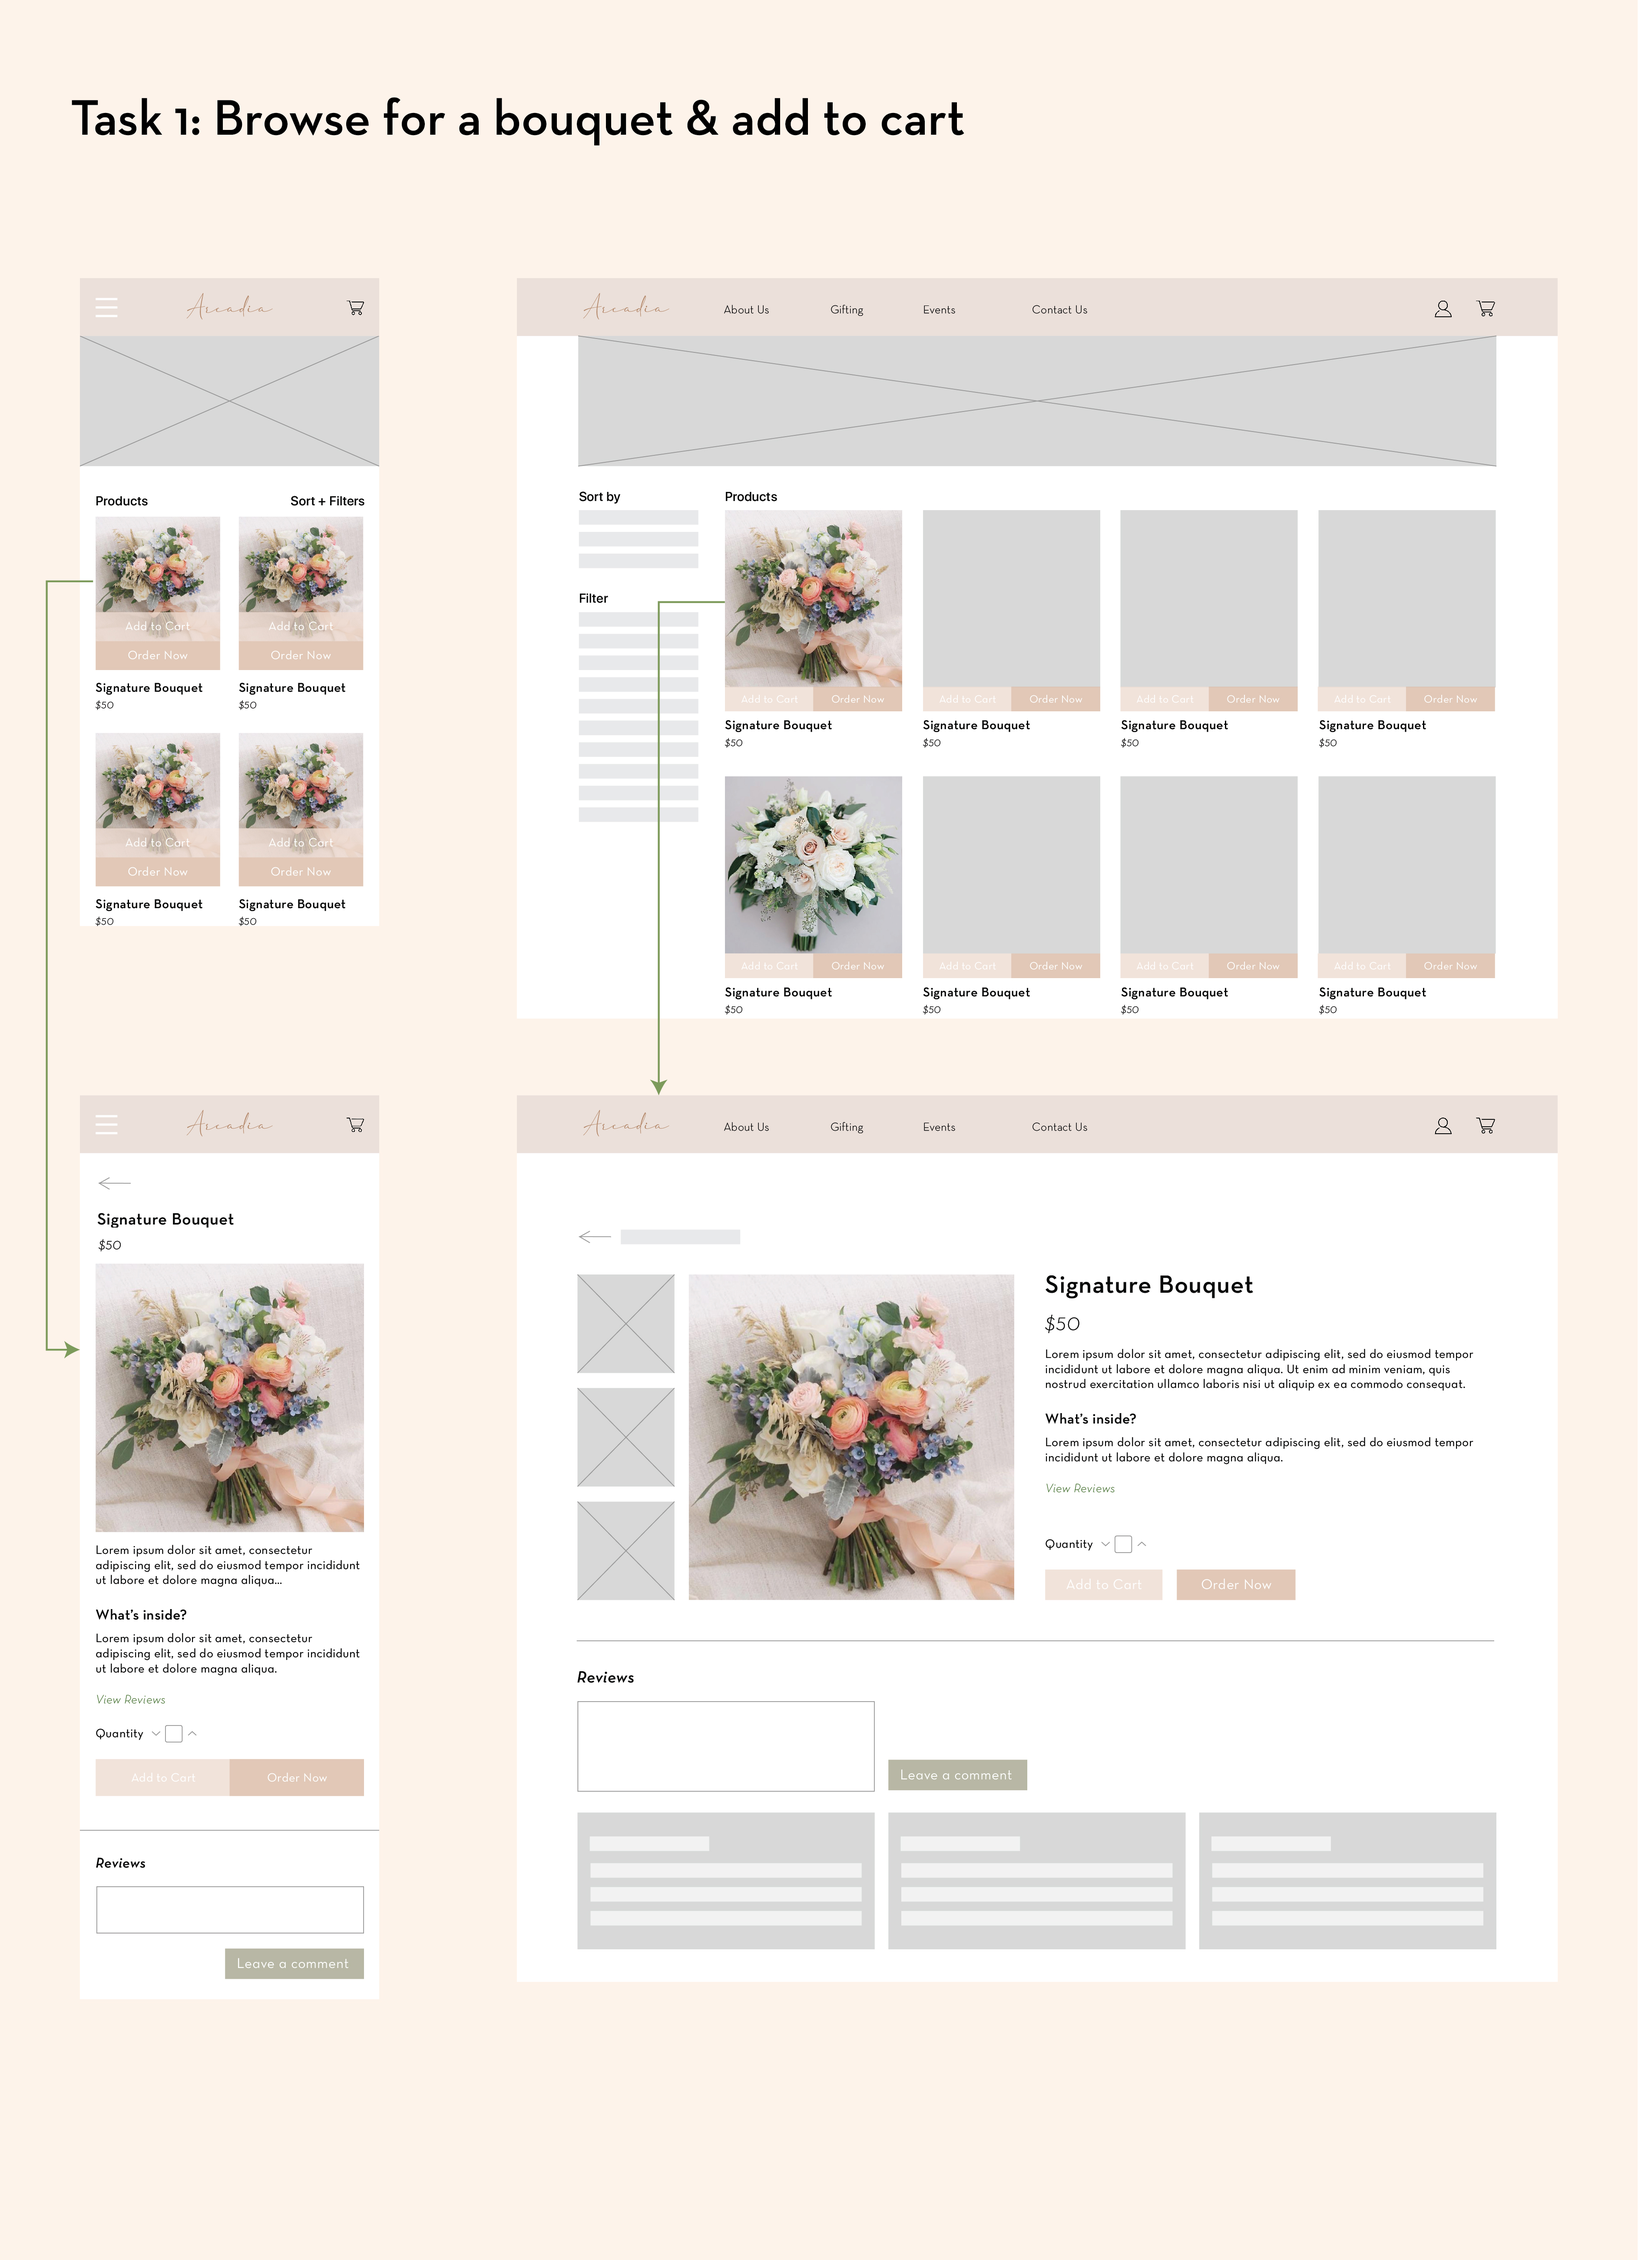
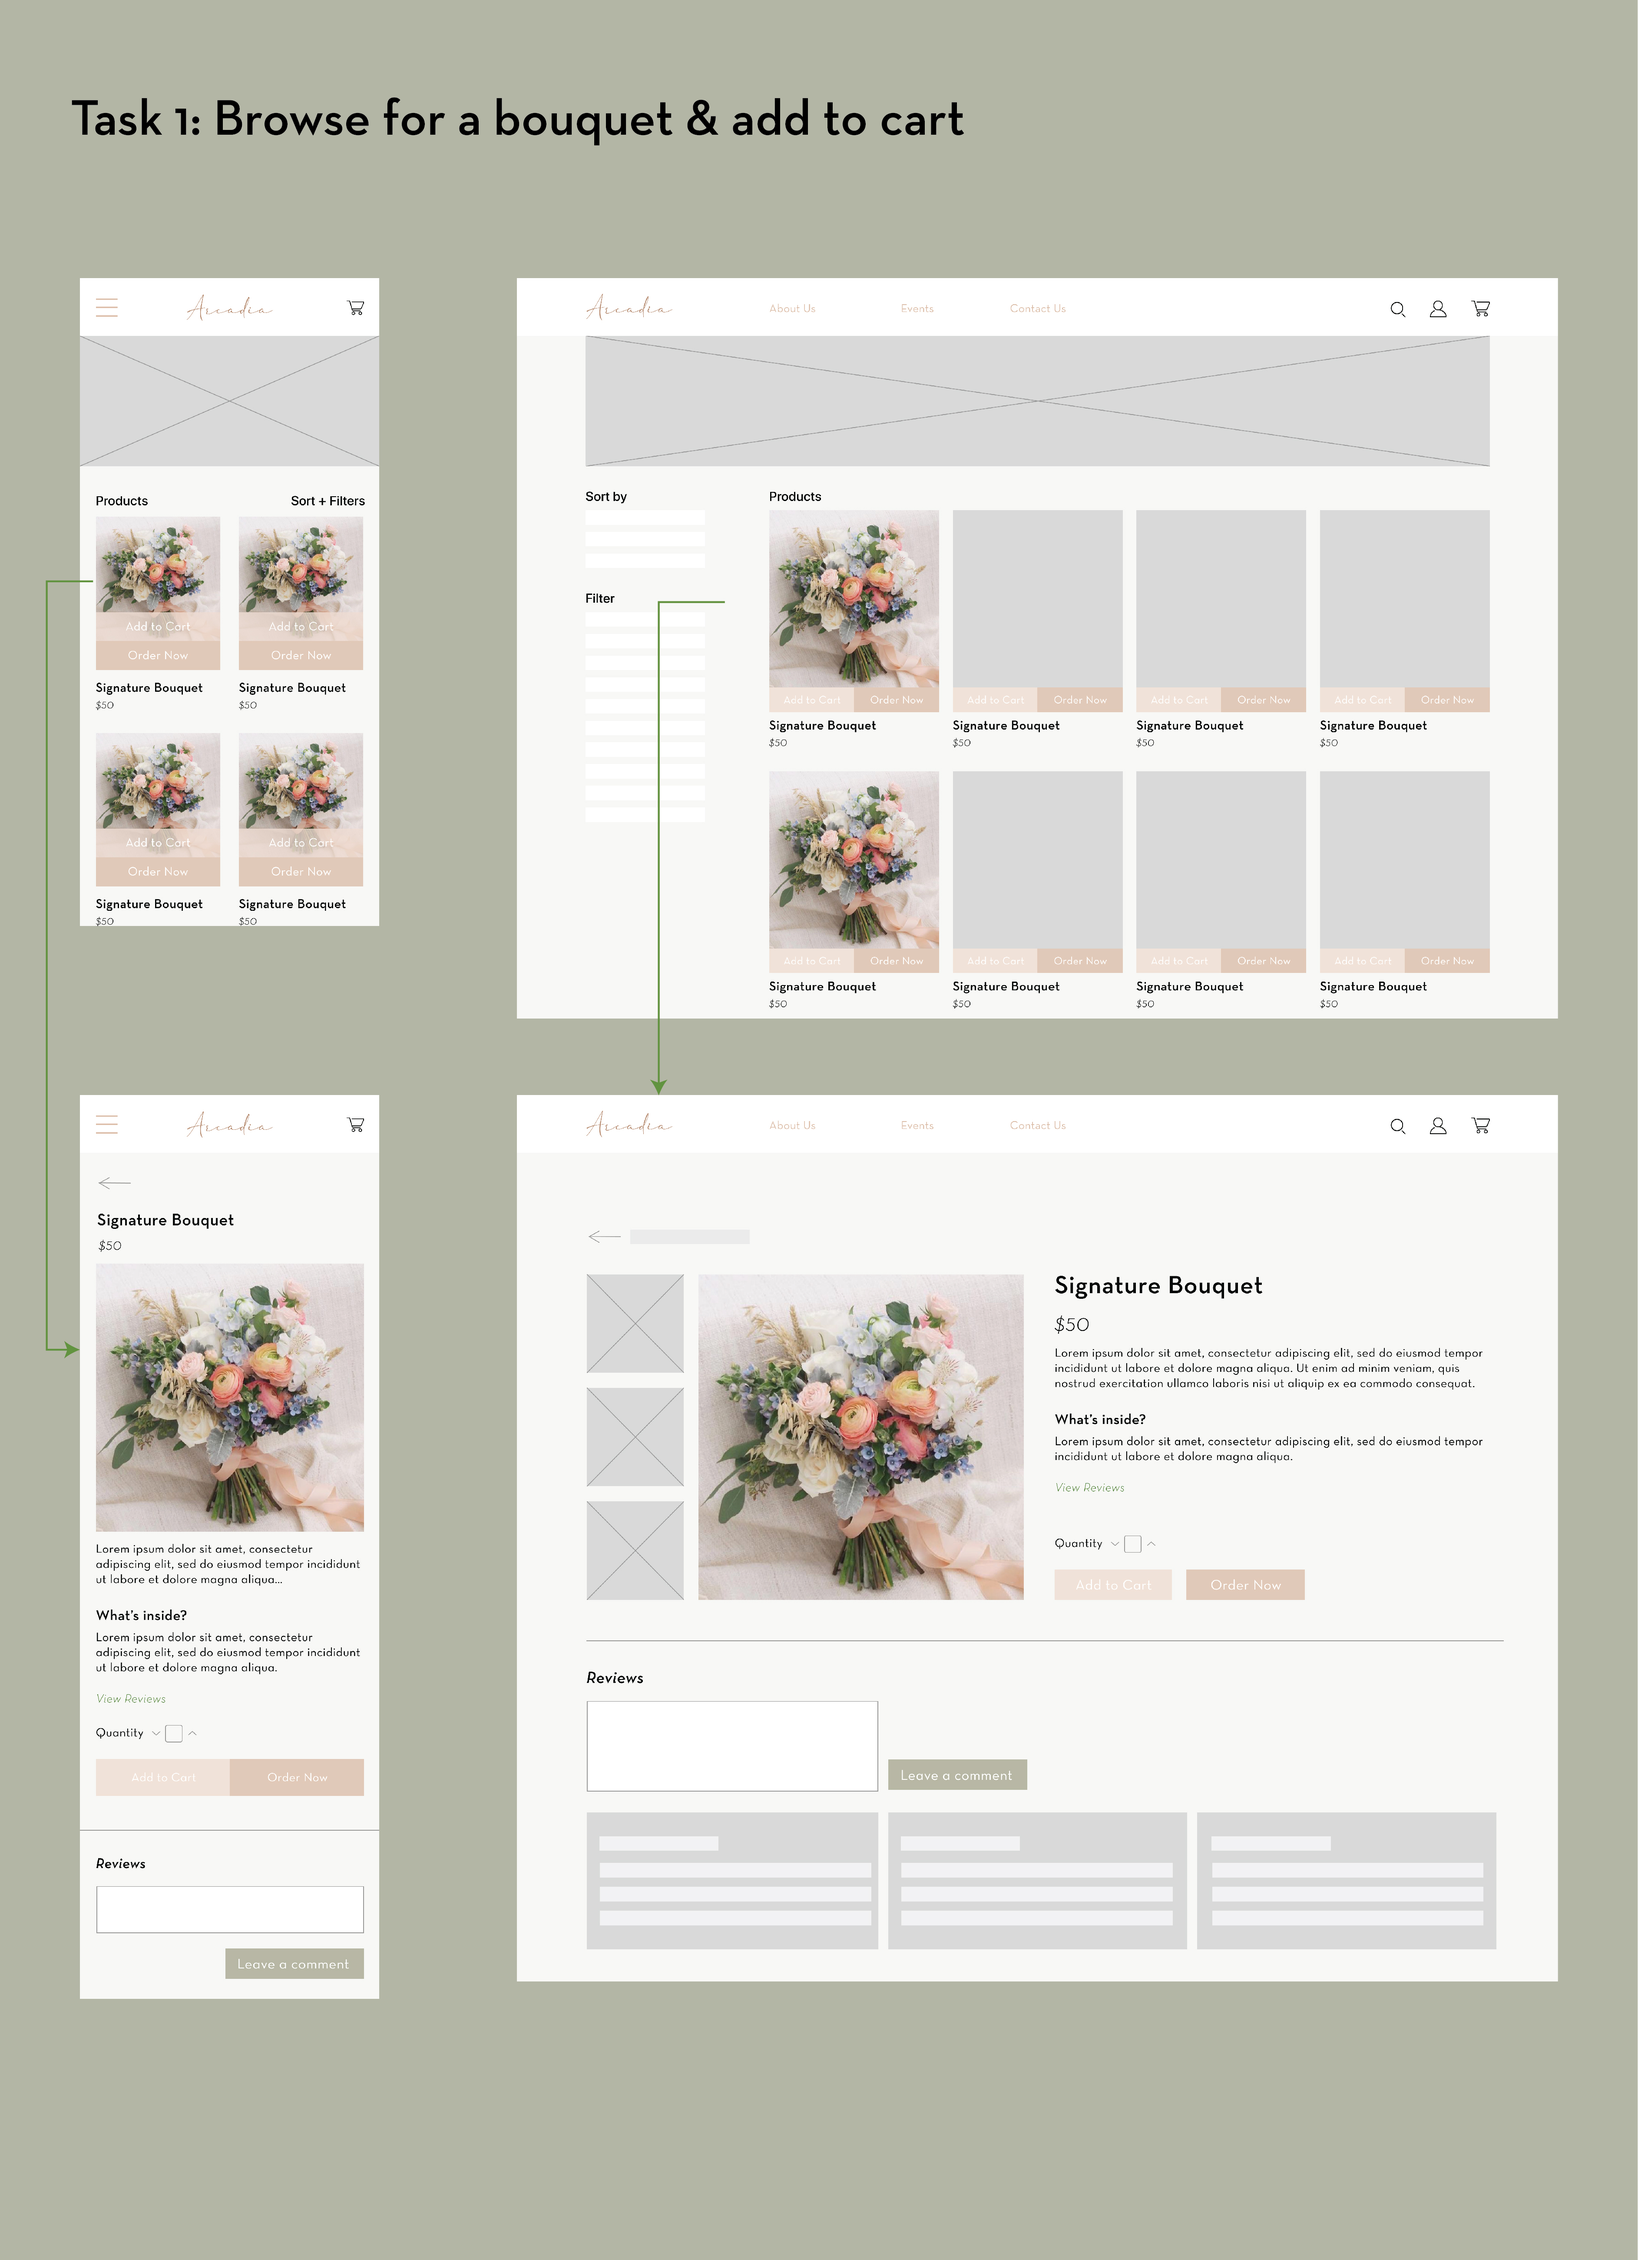
Updating Style Guide
new wireframes and main nav bar styling

diff --git a/Arcadia-style-guide/styleguide.html b/Arcadia-style-guide/styleguide.html
@@ -526,7 +526,6 @@ li {
 						<h1 class="nav-title" id="logo">Arcadia</h1>
 					<div class="nav-tab">
 						<h4>About Us</h4>
-						<h4>Gifting</h4>
 						<h4>Events</h4>
 						<h4>Contact Us</h4>
 					</div>	
@@ -546,7 +545,6 @@ li {
 	&lt;h1 class="nav-title" id="logo">Arcadia&lt;/h1>
 	&lt;div class="nav-tab">
 		&lt;h4>About Us&lt;/h4>
-		&lt;h4>Gifting&lt;/h4>
 		&lt;h4>Events&lt;/h4>
 		&lt;h4>Contact Us&lt;/h4>
 	&lt;/div>	

diff --git a/Arcadia-style-guide/css/main.css b/Arcadia-style-guide/css/main.css
@@ -286,7 +286,11 @@ input {
 }
 
 .nav{
-	background-color: #ebe0da;
+	background-color: white;
+}
+
+.nav-tab {
+	color: #DDBEA9;
 }
 
 #account-icon{
@@ -300,7 +304,7 @@ input {
 }
 
 #logo{
-	color: #B08265;
+	color: #DDBEA9;
 }
 
 .product-item-img{
@@ -309,7 +313,7 @@ input {
 }
 
 .review-container-item{
-	background-color: #fcf4ed;
+	background-color: white;
 	padding: 1rem 1rem 1rem 1rem;
 }
 

diff --git a/Arcadia-style-guide/wireframes.html b/Arcadia-style-guide/wireframes.html
@@ -28,7 +28,7 @@
 
 		<h2>Wireframes</h2>
 
-			<p>Instead of creating a seperate monkup, I incorperated the brand components into the key parts of the wireframes</p>>
+			<p>Grid structure used: 2-column, 4-column, 5-column</p>>
 
 			<img src="img/Wireframes-01.jpg" alt="Wireframes for task 1" width="800">
 			<img src="img/Wireframes-02.jpg" alt="Wireframes for task 2" width="800">
